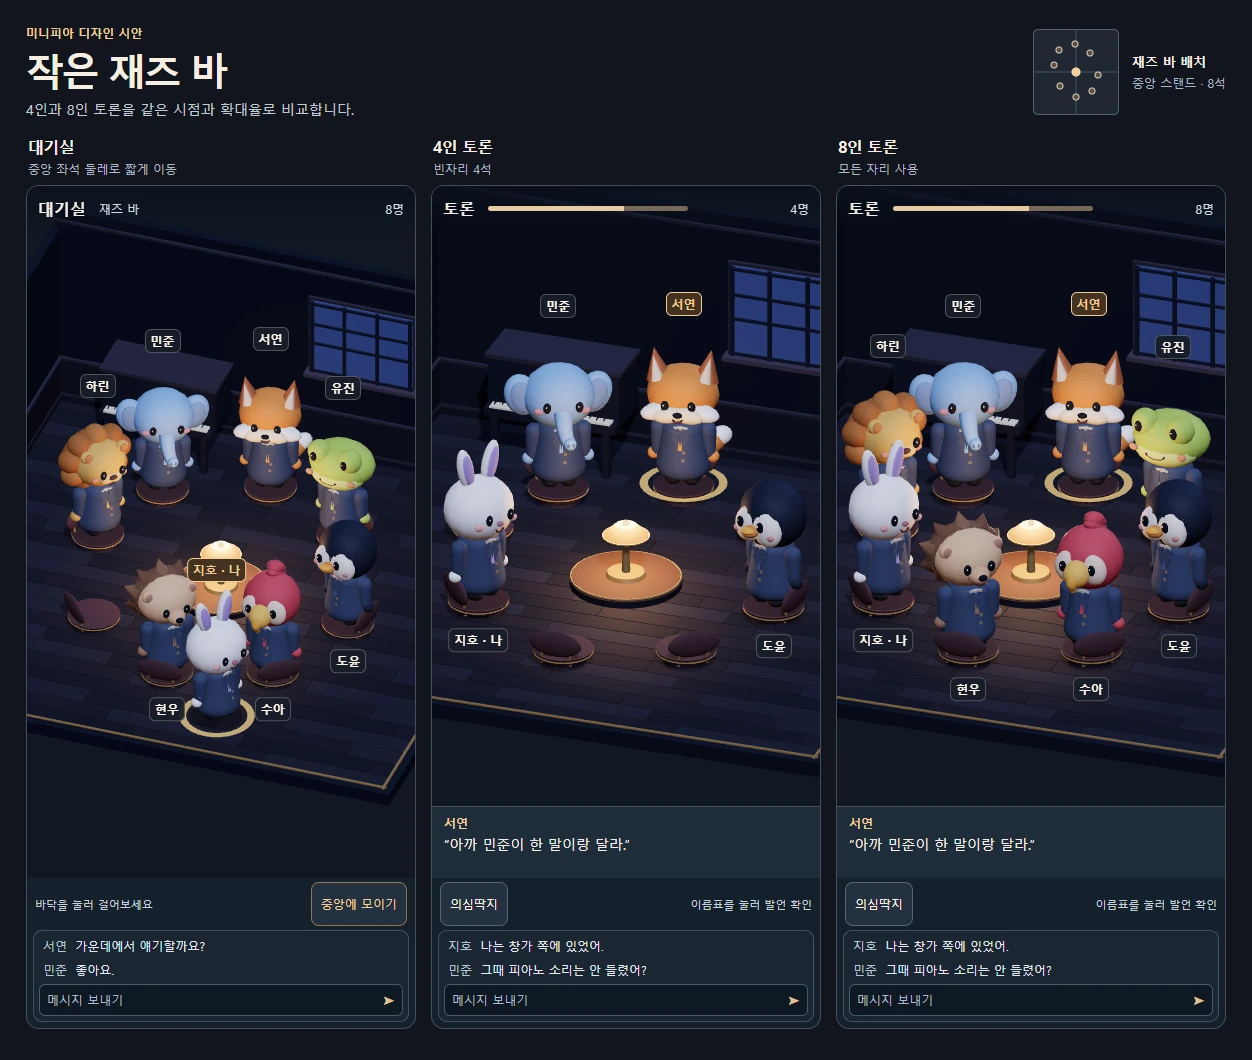
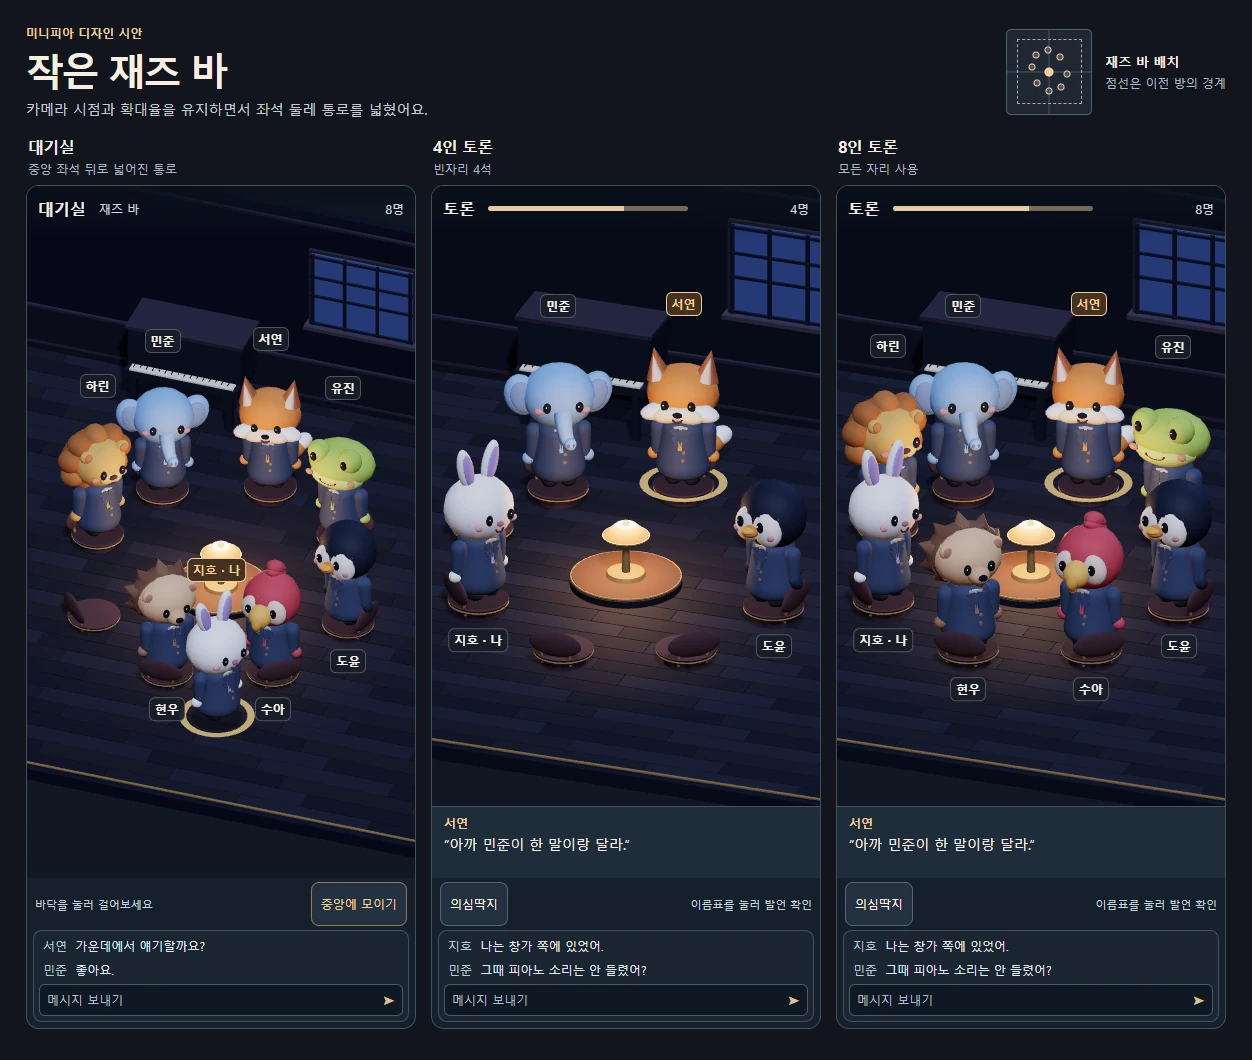
design: 재즈 바 좌석 둘레 통로 확장

diff --git a/design/v3.0/compact-bar-review/room.ts b/design/v3.0/compact-bar-review/room.ts
@@ -5,11 +5,11 @@ import {
 import { Bundle, tf, under } from "../../../src/world/maps/bar";
 import { PALETTE as P } from "../../../src/world/palette";
 
-export const roomHalf = 3.65;
+export const roomHalf = 4.7;
 export const seatTop = 0.19;
 export const centerStandRadius = 0.66;
-export const piano = { x: -1.85, z: -3.02, width: 1.62, depth: 0.66 } as const;
-export const bar = { x: 3.30, z: -1.24, width: 0.55, depth: 2.05 } as const;
+export const piano = { x: -1.85, z: -roomHalf + 0.63, width: 1.62, depth: 0.66 } as const;
+export const bar = { x: roomHalf - 0.35, z: -1.24, width: 0.55, depth: 2.05 } as const;
 const seatRadius = 0.36;
 
 export function buildReviewRoom(seats: readonly (readonly [number, number])[]): Scene {
@@ -26,8 +26,9 @@ export function buildReviewRoom(seats: readonly (readonly [number, number])[]): 
 
   floor.box(side + 0.16, 0.18, side + 0.16, P.wall, tf(0, -0.1, 0));
   const planks = [P.floorA, P.floorB, P.floorC] as const;
-  for (let row = 0; row < 24; row++) {
-    const depth = side / 24;
+  const plankRows = Math.round(side / 0.30);
+  for (let row = 0; row < plankRows; row++) {
+    const depth = side / plankRows;
     const z = -roomHalf + (row + 0.5) * depth;
     let left = -roomHalf;
     let seam = left + (row % 3 + 2) * 0.43;
@@ -52,17 +53,19 @@ export function buildReviewRoom(seats: readonly (readonly [number, number])[]): 
   brass.box(0.038, 0.017, side, P.brass, tf(roomHalf - 0.04, 0.007, 0));
 
   // 창은 방의 차가운 바탕색을 살리고, 벽 아래에 피아노 실루엣을 남긴다.
-  floor.box(1.54, 1.24, 0.048, P.wallTrim, tf(0.79, 1.96, -3.52));
-  floor.box(1.45, 1.16, 0.032, P.windowGlass, tf(0.79, 1.96, -3.49));
-  for (const x of [0.09, 0.55, 1.02, 1.49]) {
-    floor.box(0.049, 1.17, 0.027, P.blind, tf(x, 1.96, -3.46));
+  const windowX = 0.42;
+  const windowZ = -roomHalf + 0.13;
+  floor.box(1.54, 1.24, 0.048, P.wallTrim, tf(windowX, 1.96, windowZ));
+  floor.box(1.45, 1.16, 0.032, P.windowGlass, tf(windowX, 1.96, windowZ + 0.03));
+  for (const dx of [-0.7, -0.24, 0.23, 0.7]) {
+    floor.box(0.049, 1.17, 0.027, P.blind, tf(windowX + dx, 1.96, windowZ + 0.06));
   }
   for (const y of [1.42, 1.87, 2.18, 2.51]) {
-    floor.box(1.48, 0.032, 0.029, P.blind, tf(0.79, y, -3.45));
+    floor.box(1.48, 0.032, 0.029, P.blind, tf(windowX, y, windowZ + 0.07));
   }
-  floor.box(1.61, 0.055, 0.19, P.sill, tf(0.79, 1.36, -3.47));
+  floor.box(1.61, 0.055, 0.19, P.sill, tf(windowX, 1.36, windowZ + 0.05));
   for (let i = -3; i <= 3; i++) {
-    brass.box(0.02, 0.76 + Math.abs(i) * 0.025, 0.013, P.inlay, tf(2.69 + i * 0.108, 2.10 - Math.abs(i) * 0.12, -3.55, 0, 0, -i * 0.33));
+    brass.box(0.02, 0.76 + Math.abs(i) * 0.025, 0.013, P.inlay, tf(2.69 + i * 0.108, 2.10 - Math.abs(i) * 0.12, -roomHalf + 0.10, 0, 0, -i * 0.33));
   }
   furniture.box(piano.width, 0.69, piano.depth, P.pianoBody, tf(piano.x, 0.94, piano.z));
   furniture.box(piano.width + 0.06, 0.052, piano.depth + 0.05, P.wallTrim, tf(piano.x, 1.30, piano.z));
@@ -113,14 +116,15 @@ export function buildReviewRoom(seats: readonly (readonly [number, number])[]): 
   fill.position.set(2.8, 7.0, 5.8);
   fill.castShadow = true;
   fill.shadow.mapSize.set(512, 512);
-  fill.shadow.camera.left = fill.shadow.camera.bottom = -5;
-  fill.shadow.camera.right = fill.shadow.camera.top = 5;
+  const shadowExtent = roomHalf + 1.35;
+  fill.shadow.camera.left = fill.shadow.camera.bottom = -shadowExtent;
+  fill.shadow.camera.right = fill.shadow.camera.top = shadowExtent;
   fill.shadow.camera.far = 22;
   fill.shadow.normalBias = 0.028;
   const lamp = new PointLight("#ffc280", 8, 4);
   lamp.position.set(0, 1.03, 0);
   const window = new DirectionalLight("#8fa8f1", 0.6);
-  window.position.set(0.8, 2.2, -4.3);
+  window.position.set(windowX, 2.2, -roomHalf - 0.65);
   room.add(fill, lamp, window);
   return room;
 }

diff --git a/design/v3.0/compact-bar-review/scene.ts b/design/v3.0/compact-bar-review/scene.ts
@@ -46,7 +46,7 @@ function insideWalkZone(x: number, z: number): boolean {
 }
 
 function makeWalkMap(): MapDef {
-  const size = 14;
+  const size = 2 * Math.ceil(walkHalf / CELL);
   const origin = -size * CELL / 2;
   const rows = Array.from({ length: size }, (_, row) => Array.from({ length: size }, (_, col) => {
     const x = origin + (col + 0.5) * CELL;
@@ -90,6 +90,7 @@ export function mountScene(host: HTMLElement, mode: Mode, onPick: (index: number
 
   const camera = new OrthographicCamera(-1, 1, 1, -1, 0.1, 60);
   const aim = new Vector3(0, rig.aimY, 0);
+  const walkAim = aim.clone();
   const tilt = rig.tilt * Math.PI / 180;
   const cameraOffset = new Vector3(Math.sin(rig.yaw) * 13, Math.tan(tilt) * 13, Math.cos(rig.yaw) * 13);
   const ray = new Raycaster();
@@ -158,10 +159,9 @@ export function mountScene(host: HTMLElement, mode: Mode, onPick: (index: number
           moving = true;
         }
         renderer.shadowMap.needsUpdate = true;
-        const target = character.root.position.clone().multiplyScalar(0.42);
-        target.y = rig.aimY;
-        aim.lerp(target, reduced() ? 1 : 1 - Math.exp(-Math.max(dt, 0.016) * 8));
+        walkAim.set(current.x * 0.73, rig.aimY, current.z * 0.73);
       }
+      aim.lerp(walkAim, reduced() ? 1 : 1 - Math.exp(-Math.max(dt, 0.016) * 8));
     }
     camera.position.copy(aim).add(cameraOffset);
     camera.lookAt(aim);
@@ -191,7 +191,7 @@ export function mountScene(host: HTMLElement, mode: Mode, onPick: (index: number
     const dt = previous ? Math.min((now - previous) / 1_000, 0.05) : 0.016;
     previous = now;
     render(dt);
-    if (path.length > 0) raf = requestAnimationFrame(animate);
+    if (path.length > 0 || aim.distanceToSquared(walkAim) > 0.0001) raf = requestAnimationFrame(animate);
     else previous = 0;
   }
 

diff --git a/design/v3.0/compact-bar-review/index.html b/design/v3.0/compact-bar-review/index.html
@@ -12,11 +12,11 @@
       <div>
         <p>미니피아 디자인 시안</p>
         <h1>작은 재즈 바</h1>
-        <p>4인과 8인 토론을 같은 시점과 확대율로 비교합니다.</p>
+        <p>카메라 시점과 확대율을 유지하면서 좌석 둘레 통로를 넓혔어요.</p>
       </div>
       <figure class="layout">
-        <div id="floor-plan" class="floor-plan" role="img" aria-label="정사각형 재즈 바 한가운데에 스탠드가 있고, 여덟 좌석이 둘레에 있습니다."></div>
-        <figcaption><strong>재즈 바 배치</strong><span>중앙 스탠드 · 8석</span></figcaption>
+        <div id="floor-plan" class="floor-plan" role="img" aria-label="이전 재즈 바 경계는 점선, 넓어진 방의 경계는 실선입니다. 중앙에 스탠드와 여덟 좌석이 있습니다."></div>
+        <figcaption><strong>재즈 바 배치</strong><span>점선은 이전 방의 경계</span></figcaption>
       </figure>
     </header>
     <nav class="review-nav" aria-label="비교 장면">
@@ -26,7 +26,7 @@
     </nav>
     <div class="review-grid">
       <section data-panel="walk" aria-labelledby="walk-title">
-        <header class="panel-header"><h2 id="walk-title">대기실</h2><p>중앙 좌석 둘레로 짧게 이동</p></header>
+        <header class="panel-header"><h2 id="walk-title">대기실</h2><p>중앙 좌석 뒤로 넓어진 통로</p></header>
         <div class="phone">
           <header class="game-header"><b>대기실</b><span>재즈 바</span><span>8명</span></header>
           <div class="world" id="walk-world" aria-label="바닥을 눌러 움직이는 재즈 바"></div>

diff --git a/design/v3.0/compact-bar-review/style.css b/design/v3.0/compact-bar-review/style.css
@@ -20,6 +20,7 @@ main { max-width: 1252px; margin: auto; padding: 25px 26px 28px; }
 .layout figcaption span { color: #adb6c5; font-size: 12px; }
 .floor-plan { position: relative; flex: none; width: 86px; height: 86px; border: 1px solid #50606d; border-radius: 5px; background: #202834; }
 .floor-plan::before { content: ''; position: absolute; inset: 0; background: linear-gradient(90deg, transparent 49%, #76849c39 49% 51%, transparent 51%), linear-gradient(transparent 49%, #76849c39 49% 51%, transparent 51%); }
+.floor-plan::after { content: ''; position: absolute; inset: var(--previous-room-inset); border: 1px dashed #a2acc1; }
 .floor-plan span { position: absolute; width: 7px; height: 7px; border: 1px solid #e4d6bc; border-radius: 50%; background: #5a4d47; transform: translate(-50%, -50%); }
 .floor-plan .stand { left: 50%; top: 50%; width: 9px; height: 9px; border-color: #ffe3b3; background: var(--gold); }
 .review-grid { display: grid; grid-template-columns: repeat(3, minmax(0, 1fr)); gap: 15px; margin-top: 18px; }

diff --git a/design/v3.0/compact-bar-review/review.ts b/design/v3.0/compact-bar-review/review.ts
@@ -18,6 +18,8 @@ const state = {
 const tabs = [...document.querySelectorAll<HTMLButtonElement>('[data-show]')];
 const panels = [...document.querySelectorAll<HTMLElement>('[data-panel]')];
 const floorPlan = element('#floor-plan');
+const previousRoomHalf = 3.65;
+floorPlan.style.setProperty('--previous-room-inset', `${(1 - previousRoomHalf / roomHalf) * 50}%`);
 const stand = document.createElement('span');
 stand.className = 'stand';
 floorPlan.append(stand);

diff --git a/HANDOFF.md b/HANDOFF.md
@@ -31,5 +31,5 @@
 
 - **다음 첫날 라이어게임**. 중앙에 모여 한 명씩 차례대로 답을 말하고, 그 순간 의심딱지를 붙일 수 있게 하는 흐름을 검토한다.
 
-1. **개편 시안 평가 대기**. [작은 재즈 바 3D 시안](design/v3.0/compact-bar-review/index.html)과 [비교 캡처](design/v3.0/compact-bar-review/comparison.webp). 중앙 스탠드와 8석, 4·8인 공통 근접 카메라를 적용했다. 320px 조작 검수 완료. 운영판 적용 전 긴 이름과 딱지 부착 거리를 확인한다. [이전 4~8인 흐름](design/v3.0/field-table-review/index.html)과 [전면 평가](docs/redesign-audit-2026-11-19.md) 참고. 실제 구성과 규칙은 사용자 평가 후 결정한다.
+1. **개편 시안 평가 대기**. [재즈 바 3D 시안](design/v3.0/compact-bar-review/index.html)과 [비교 캡처](design/v3.0/compact-bar-review/comparison.webp). 방 한 변을 7.3→9.4로 넓혔다. 중앙 스탠드·8석·4/8인 공통 카메라 유지. 운영판 적용 전 긴 이름과 딱지 거리를 확인한다. [이전 4~8인 흐름](design/v3.0/field-table-review/index.html)과 [전면 평가](docs/redesign-audit-2026-11-19.md) 참고. 실제 구성과 규칙은 사용자 평가 후 결정한다.
 2. **실기기**. 작은 폰의 키보드와 채팅·이름표, 소리 크기, 처음 온 사람이 채팅 없이 단서와 의심딱지를 쓸 수 있는지 팀에서 확인한다. 결과로 실험방의 기본 적용 범위를 판단한다. 24페이즈의 남은 모바일 전체 회귀와 실기기 항목을 확인한 뒤 main 반영을 판단한다.
